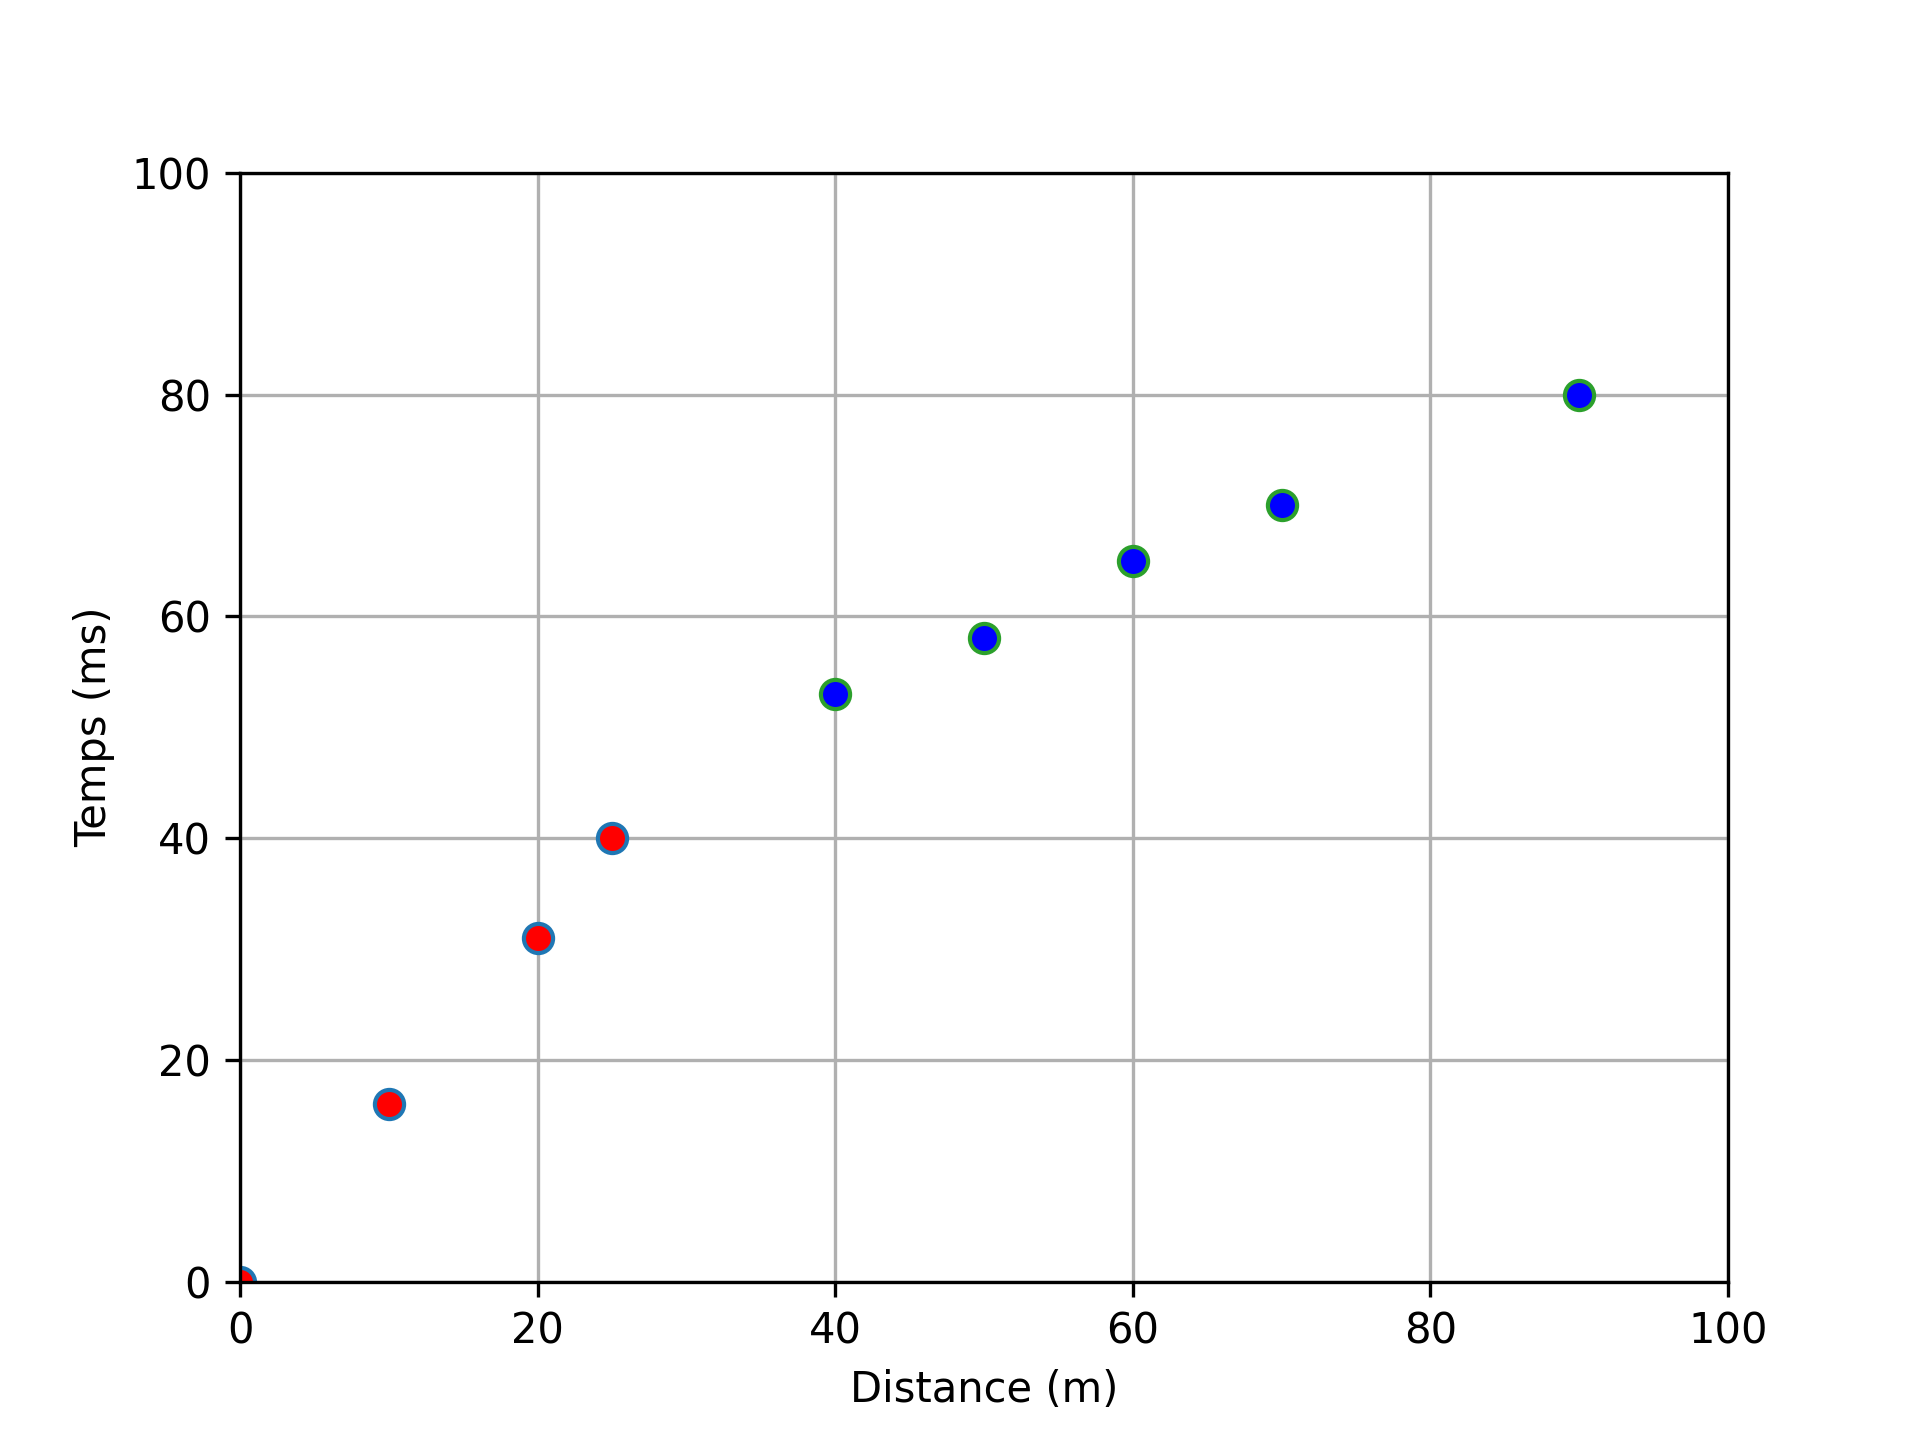
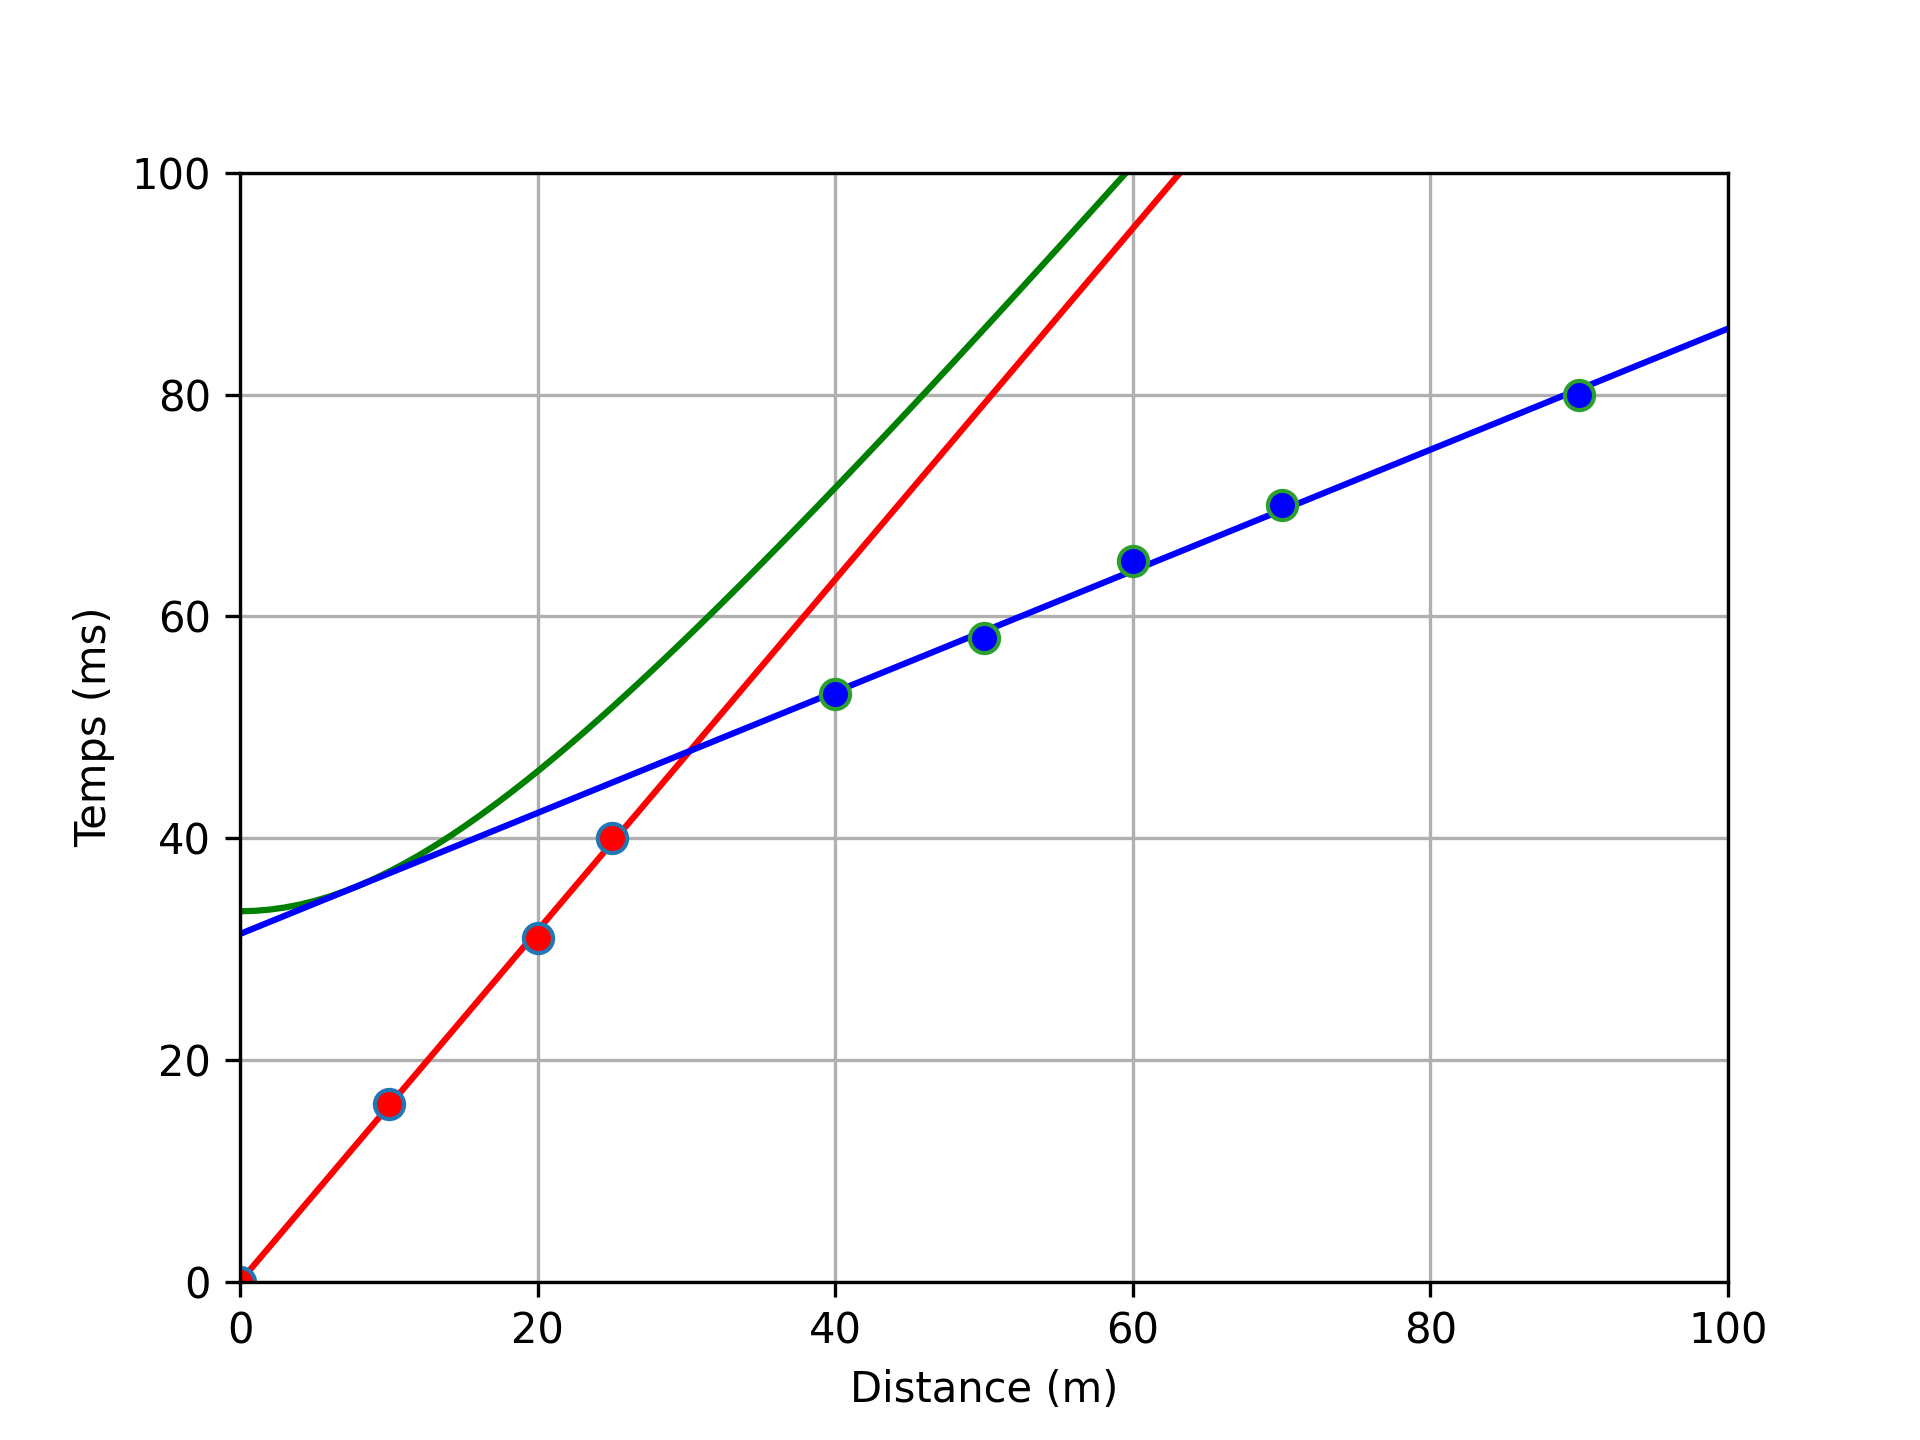
Tracé hodochrones

diff --git a/src/Hodochrones.py b/src/Hodochrones.py
@@ -24,6 +24,12 @@ class Hodochrones:
         self.pxmax = None
         self.ptmin = None
         self.ptmax = None
+        self.xdirect = []
+        self.tdirect = []
+        self.xreflex = []
+        self.treflex = []
+        self.xrefrac = []
+        self.trefrac = []
         
     def readScript(self,filename):
         self.filename = filename
@@ -97,16 +103,22 @@ class Hodochrones:
                 point["x"] = x
                 point["t"] = t
                 self.directHodochrone.append (point)
+                self.xdirect . append(x)
+                self.tdirect . append(t)
             elif type == 'r':
                 point = {}
                 point["x"] = x
                 point["t"] = t
                 self.reflectedHodochrone.append (point)
+                self.xreflex . append(x)
+                self.treflex . append(t)
             elif type == 'c':
                 point = {}
                 point["x"] = x
                 point["t"] = t
                 self.refractedHodochrone.append (point)
+                self.xrefrac . append(x)
+                self.trefrac . append(t)
                 
     def plotData(self):
         x = []
@@ -157,10 +169,72 @@ class Hodochrones:
         plt.xlim(xmin,xmax)
         plt.ylim(tmin,tmax)            
 
+
+    def calculateParameters(self):
+        self.slopedirect, self.y0direct = np.polyfit(self.xdirect,self.tdirect,1)         
+        self.sloperefrac, self.y0refrac = np.polyfit(self.xrefrac,self.trefrac,1)        
+        self.v1 = 1000 / self.slopedirect 
+        self.v2 = 1000 / self.sloperefrac
+        self.ic = math.asin (self.v1/self.v2) * 180 / math.pi
+        self.h = self.y0refrac * 0.5e-3 * self.v1 * self.v2 / np.sqrt (self.v2**2 - self.v1**2 )
+        
+            # tangence onde réfléchie et onde conique
+        self.xt = 2 * self.h * self.v1 / np.sqrt (self.v2**2 - self.v1**2 )
+        
+            # intersection onde conique et onde directe
+        self.xb =  2 * self.h * np.sqrt (self.v2 + self.v1) / np.sqrt (self.v2 - self.v1)
+        
+    def calculateHodochrones(self):
+        self.xx = np.linspace (self.pxmin, self.pxmax, 100)   
+        self.t1 = self.xx / self.v1
+        self.t2 = np.sqrt ( self.xx**2 + 4 * self.h**2 ) / self.v1
+        self.t3 = 2 * self.h * np.sqrt (self.v2**2 - self.v1**2) / (self.v1 * self.v2) + self.xx / self.v2 
+        self.t1 *= 1000
+        self.t2 *= 1000
+        self.t3 *= 1000
+        
+    def plotHodochrones(self):
+        plt.plot(self.xx,self.t1, '-', color='red')
+        plt.plot(self.xx,self.t2, '-', color='green')
+        plt.plot(self.xx,self.t3, '-', color='blue')
+
+    def showDiagram(self):            
+        filepath = self.plotsFolderPath+self.filename+'.png'
+        if os.path.exists(filepath):
+            os.remove(filepath)
         plt.savefig(self.plotsFolderPath+self.filename+'.png', dpi=300)
         plt.show()
-plt.show()
+
+    def printData(self):
+        print ("Onde directe")
+        for point in self.directHodochrone:
+            print("x = {:.2f} m, t = {:.2f} ms".format(point["x"],point["t"]))
+        print ("Onde réfléchie")
+        for point in self.reflectedHodochrone:
+            print("x = {:.2f} m, t = {:.2f} ms".format(point["x"],point["t"]))
+        print ("Onde conique")
+        for point in self.refractedHodochrone:
+            print("x = {:.2f} m, t = {:.2f} ms".format(point["x"],point["t"]))
+            
+            
         
+    def printParameters(self):    
+        print("Vitesse v1                              = {:.2f} m/s".format(self.v1))
+        print("Vitesse v2                              = {:.2f} m/s".format(self.v2))
+        print("Profondeur réflecteur h                 = {:.2f} m".format(self.h))
+        print("Angle critique ic                       = {:.2f} °".format(self.ic))
+        print("Tangence ondes réfléchie et réfractée   = {:.2f} m".format(self.xt))
+        print("Intersection ondes directe et réfléchie = {:.2f} m".format(self.xb))
         
+    def run(self,filename):
+        self.readScript (filename)
+        self.analyzeData()
+        self.calculateParameters()
+        self.printData()
+        self.printParameters()
+        self.calculateHodochrones()
+        self.plotHodochrones()
+        self.plotData()
+        self.showDiagram()
         
             

diff --git a/seismicHodochrones.py b/seismicHodochrones.py
@@ -19,21 +19,10 @@ if __name__ == '__main__':
     filename = os.path.splitext(filename)[0]
     
     print ("Process script {}".format(filename))
-
-
-    hodochrones = Hodochrones()
-    hodochrones.readScript (filename)
-    hodochrones.analyzeData()
-    hodochrones.plotData()
-    
-    
-#     scene = Scene()
-#     scene.buildFromScript(filename)
-    
     
     try:
-#         scene.buildAnimation()
-        print("OK")
+        hodochrones = Hodochrones()
+        hodochrones.run (filename)
     except KeyboardInterrupt:
         print ("Program interrupted. Exiting...")    
         sys.exit(0)
